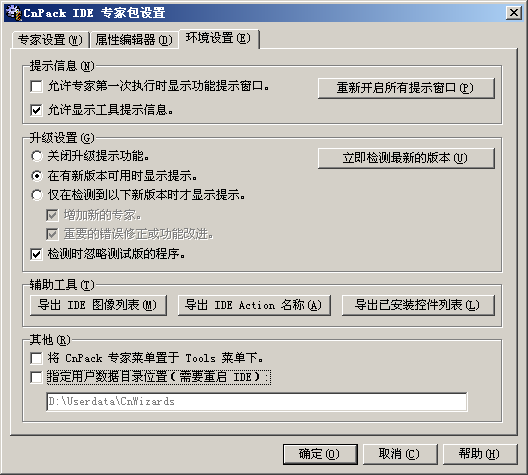
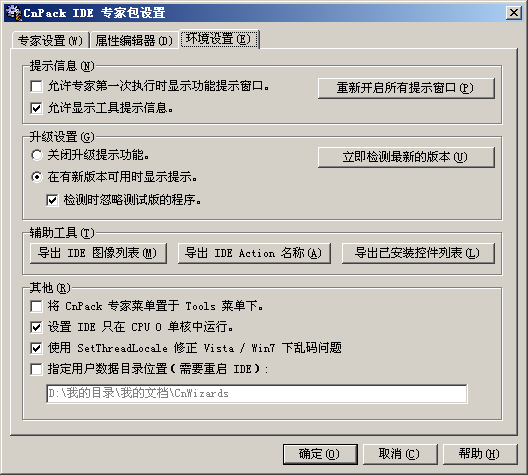
* [Config] 增加设置IDE为单核方式的功能 / Add a switch of running IDE in single core.

diff --git a/cnwizards/Help/CnWizards_ENU/options/otherconfig.htm b/cnwizards/Help/CnWizards_ENU/options/otherconfig.htm
@@ -49,9 +49,6 @@ See <a href="../wizards/wizards.htm">Basic Operation</a>.</p>
   <li>
 <p class="text"><b>Prompt when New Version Available</b>: Enables the feature of checking upgrade version when IDE startup.</p>
   </li>
-  <li>
-<p class="text"><b>Only Prompt when the Following New Version Available</b>: Only prompt user when new wizard added or important bug-fix or improvement in the new version.</p>
-  </li>
 </ul>
 <ul>
   <li>
@@ -83,6 +80,12 @@ Packages.txt and Components.txt file, for developers. Control names may duplicat
 <ul>
   <li>
 <p class="text"><b>Integrate CnPack Menu into Tools Menu</b>: Put the 'CnPack' menu item into 'Tools' menu or in main menu.</p>
+  </li>
+  <li>
+<p class="text"><b>Set IDE to run in CPU 0 single core</b>: Used to fix some conflict under multi-core system.</p>
+  </li>
+  <li>
+<p class="text"><b>Use SetThreadLocale to fix encode problem under Vista / Win7</b>: Used to fix encode problem in some IDE.</p>
   </li>
   <li>
 <p class="text"><b>Customize User Data Folder</b>: Allow user to customize user data folder to avoid the authorization problem under Vista/Windows 7.</p>
